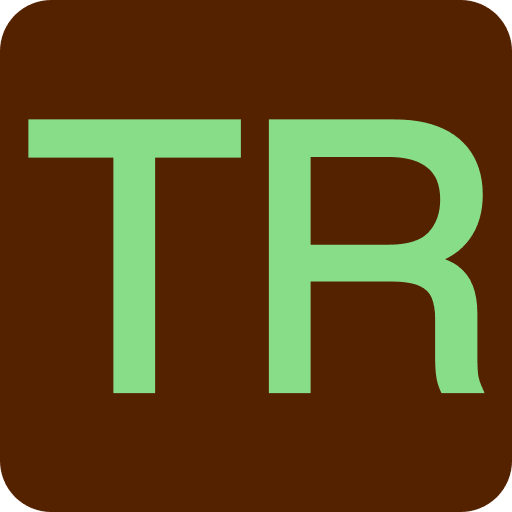
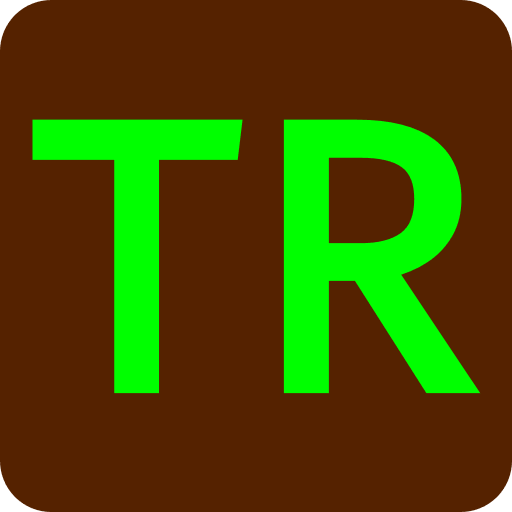
Code and style improvements
- Replace favicon.

Changed region(s): [[0.5, 0.2188, 0.9688, 0.7812], [0.0312, 0.2188, 0.4688, 0.7812]]

diff --git a/src/components/layout/layout.tsx b/src/components/layout/layout.tsx
@@ -1,13 +1,10 @@
-import { getSiteSections } from "../../data/data";
-import CVButton from "../CVButton";
+import DrawerContent from "../navbar/mobile/DrawerContent";
 
 interface Props {
   children: React.ReactNode;
 }
 
 const Layout = ({ children }: Props) => {
-  const sections = getSiteSections();
-
   return (
     <div className="drawer drawer-end">
       <input id="navbar-drawer" type="checkbox" className="drawer-toggle" />
@@ -20,42 +17,7 @@ const Layout = ({ children }: Props) => {
         />
         <ul className="menu bg-base-200 min-h-full h-[100%] w-60  p-5">
           <div className="mt-12 h-[100%]">
-            {/* Sidebar content here */}
-            <div className="flex flex-col justify-between h-[100%]">
-              <div>
-                {sections.map((section) => {
-                  const sectionFormatted =
-                    section.charAt(0).toUpperCase() + section.slice(1);
-                  return (
-                    <div
-                      key={section}
-                      className="flex justify-center items-center mb-4"
-                    >
-                      <li key={section} className="">
-                        <div>
-                          <a
-                            className="text-accent text-center"
-                            href={`#${section}`}
-                          >
-                            <h4 className="text-lg">{sectionFormatted}</h4>
-                          </a>
-                        </div>
-                      </li>
-                    </div>
-                  );
-                })}
-              </div>
-              <div className="text-center">
-                <div className="mb-8">
-                  <CVButton />
-                </div>
-                <div>
-                  <a href={"https://github.com/ThomasRainford"} target="_blank">
-                    <i className="devicon-github-original text-4xl text-accent"></i>
-                  </a>
-                </div>
-              </div>
-            </div>
+            <DrawerContent />
           </div>
         </ul>
       </div>

diff --git a/src/components/navbar/mobile/DrawerContent.tsx b/src/components/navbar/mobile/DrawerContent.tsx
@@ -1,0 +1,43 @@
+import { getSiteSections } from "../../../data/data";
+import CVButton from "../../CVButton";
+
+const DrawerContent = () => {
+  const sections = getSiteSections();
+
+  return (
+    <div className="flex flex-col justify-between h-[100%]">
+      <div>
+        {sections.map((section) => {
+          const sectionFormatted =
+            section.charAt(0).toUpperCase() + section.slice(1);
+          return (
+            <div
+              key={section}
+              className="flex justify-center items-center mb-4"
+            >
+              <li key={section} className="">
+                <div>
+                  <a className="text-accent text-center" href={`#${section}`}>
+                    <h4 className="text-lg">{sectionFormatted}</h4>
+                  </a>
+                </div>
+              </li>
+            </div>
+          );
+        })}
+      </div>
+      <div className="text-center">
+        <div className="mb-8">
+          <CVButton />
+        </div>
+        <div>
+          <a href={"https://github.com/ThomasRainford"} target="_blank">
+            <i className="devicon-github-original text-4xl text-current"></i>
+          </a>
+        </div>
+      </div>
+    </div>
+  );
+};
+
+export default DrawerContent;

diff --git a/src/components/navbar/desktop/DesktopMenu.tsx b/src/components/navbar/desktop/DesktopMenu.tsx
@@ -1,13 +1,13 @@
-import { getSiteSections } from "../../data/data";
-import CVButton from "../CVButton";
-import ThemeController from "./theme-controller";
+import { getSiteSections } from "../../../data/data";
+import CVButton from "../../CVButton";
+import ThemeController from "../theme-controller";
 
 const DesktopMenu = () => {
   const sections = getSiteSections();
 
   return (
     <div className="hidden flex-none sm:block mr-3">
-      <ul className="menu menu-md menu-horizontal">
+      <ul className="menu menu-md menu-horizontal p-0">
         {/* Navbar menu content */}
         <>
           <div className="flex flex-row">
@@ -30,7 +30,7 @@ const DesktopMenu = () => {
             </div>
             <div className="flex items-center ml-4 pt-0.5">
               <a href={"https://github.com/ThomasRainford"} target="_blank">
-                <i className="devicon-github-original text-3xl text-accent"></i>
+                <i className="devicon-github-original text-3xl text-current"></i>
               </a>
             </div>
             <div className="ml-3">

diff --git a/src/components/navbar/mobile/MobileMenu.tsx b/src/components/navbar/mobile/MobileMenu.tsx
@@ -1,21 +1,19 @@
-import DrawerIcon from "../icons/DrawerIcon";
-import ThemeController from "./theme-controller";
+import DrawerIcon from "../../icons/DrawerIcon";
+import ThemeController from "../theme-controller";
 
 const MobileMenu = () => {
   return (
     <div className="flex flex-row items-center sm:hidden mr-3">
       <div className="mr-3">
-        <div>
-          <ThemeController />
-        </div>
+        <ThemeController />
       </div>
       <div>
         <label
           htmlFor="navbar-drawer"
           aria-label="open sidebar"
-          className="btn btn-square btn-ghost border-0"
+          className="btn btn-ghost border-0 p-2"
         >
-          <DrawerIcon colour="fill-accent" width="40px" height="40px" />
+          <DrawerIcon colour="fill-current" width="45px" height="45px" />
         </label>
       </div>
     </div>

diff --git a/src/components/navbar/theme-controller.tsx b/src/components/navbar/theme-controller.tsx
@@ -11,7 +11,7 @@ const ThemeController = () => {
 
   return (
     <div>
-      <label className="swap swap-rotate grid place-items-center">
+      <label className="swap swap-rotate">
         <input
           type="checkbox"
           checked={theme === "light"}
@@ -20,7 +20,8 @@ const ThemeController = () => {
           style={{ opacity: 0 }} // Removes checkbox style for mobile.
           className="theme-controller bg-base-content row-start-1 col-start-1 col-span-2"
         />
-        {theme === "light" ? <MoonIcon /> : <SunIcon />}
+        <MoonIcon />
+        <SunIcon />
       </label>
     </div>
   );

diff --git a/src/components/icons/MoonIcon.tsx b/src/components/icons/MoonIcon.tsx
@@ -1,7 +1,7 @@
 const MoonIcon = () => {
   return (
     <svg
-      className="swap-on h-9 w-9 fill-current"
+      className="swap-off h-9 w-9 fill-current"
       xmlns="http://www.w3.org/2000/svg"
       viewBox="0 0 24 24"
     >

diff --git a/src/components/icons/SunIcon.tsx b/src/components/icons/SunIcon.tsx
@@ -1,7 +1,7 @@
 const SunIcon = () => {
   return (
     <svg
-      className="swap-off h-9 w-9 fill-current"
+      className="swap-on h-9 w-9 fill-current"
       xmlns="http://www.w3.org/2000/svg"
       viewBox="0 0 24 24"
     >

diff --git a/src/components/navbar/navbar.tsx b/src/components/navbar/navbar.tsx
@@ -1,5 +1,5 @@
-import DesktopMenu from "./DesktopMenu";
-import MobileMenu from "./MobileMenu";
+import DesktopMenu from "./desktop/DesktopMenu";
+import MobileMenu from "./mobile/MobileMenu";
 
 const Navbar = () => {
   return (
